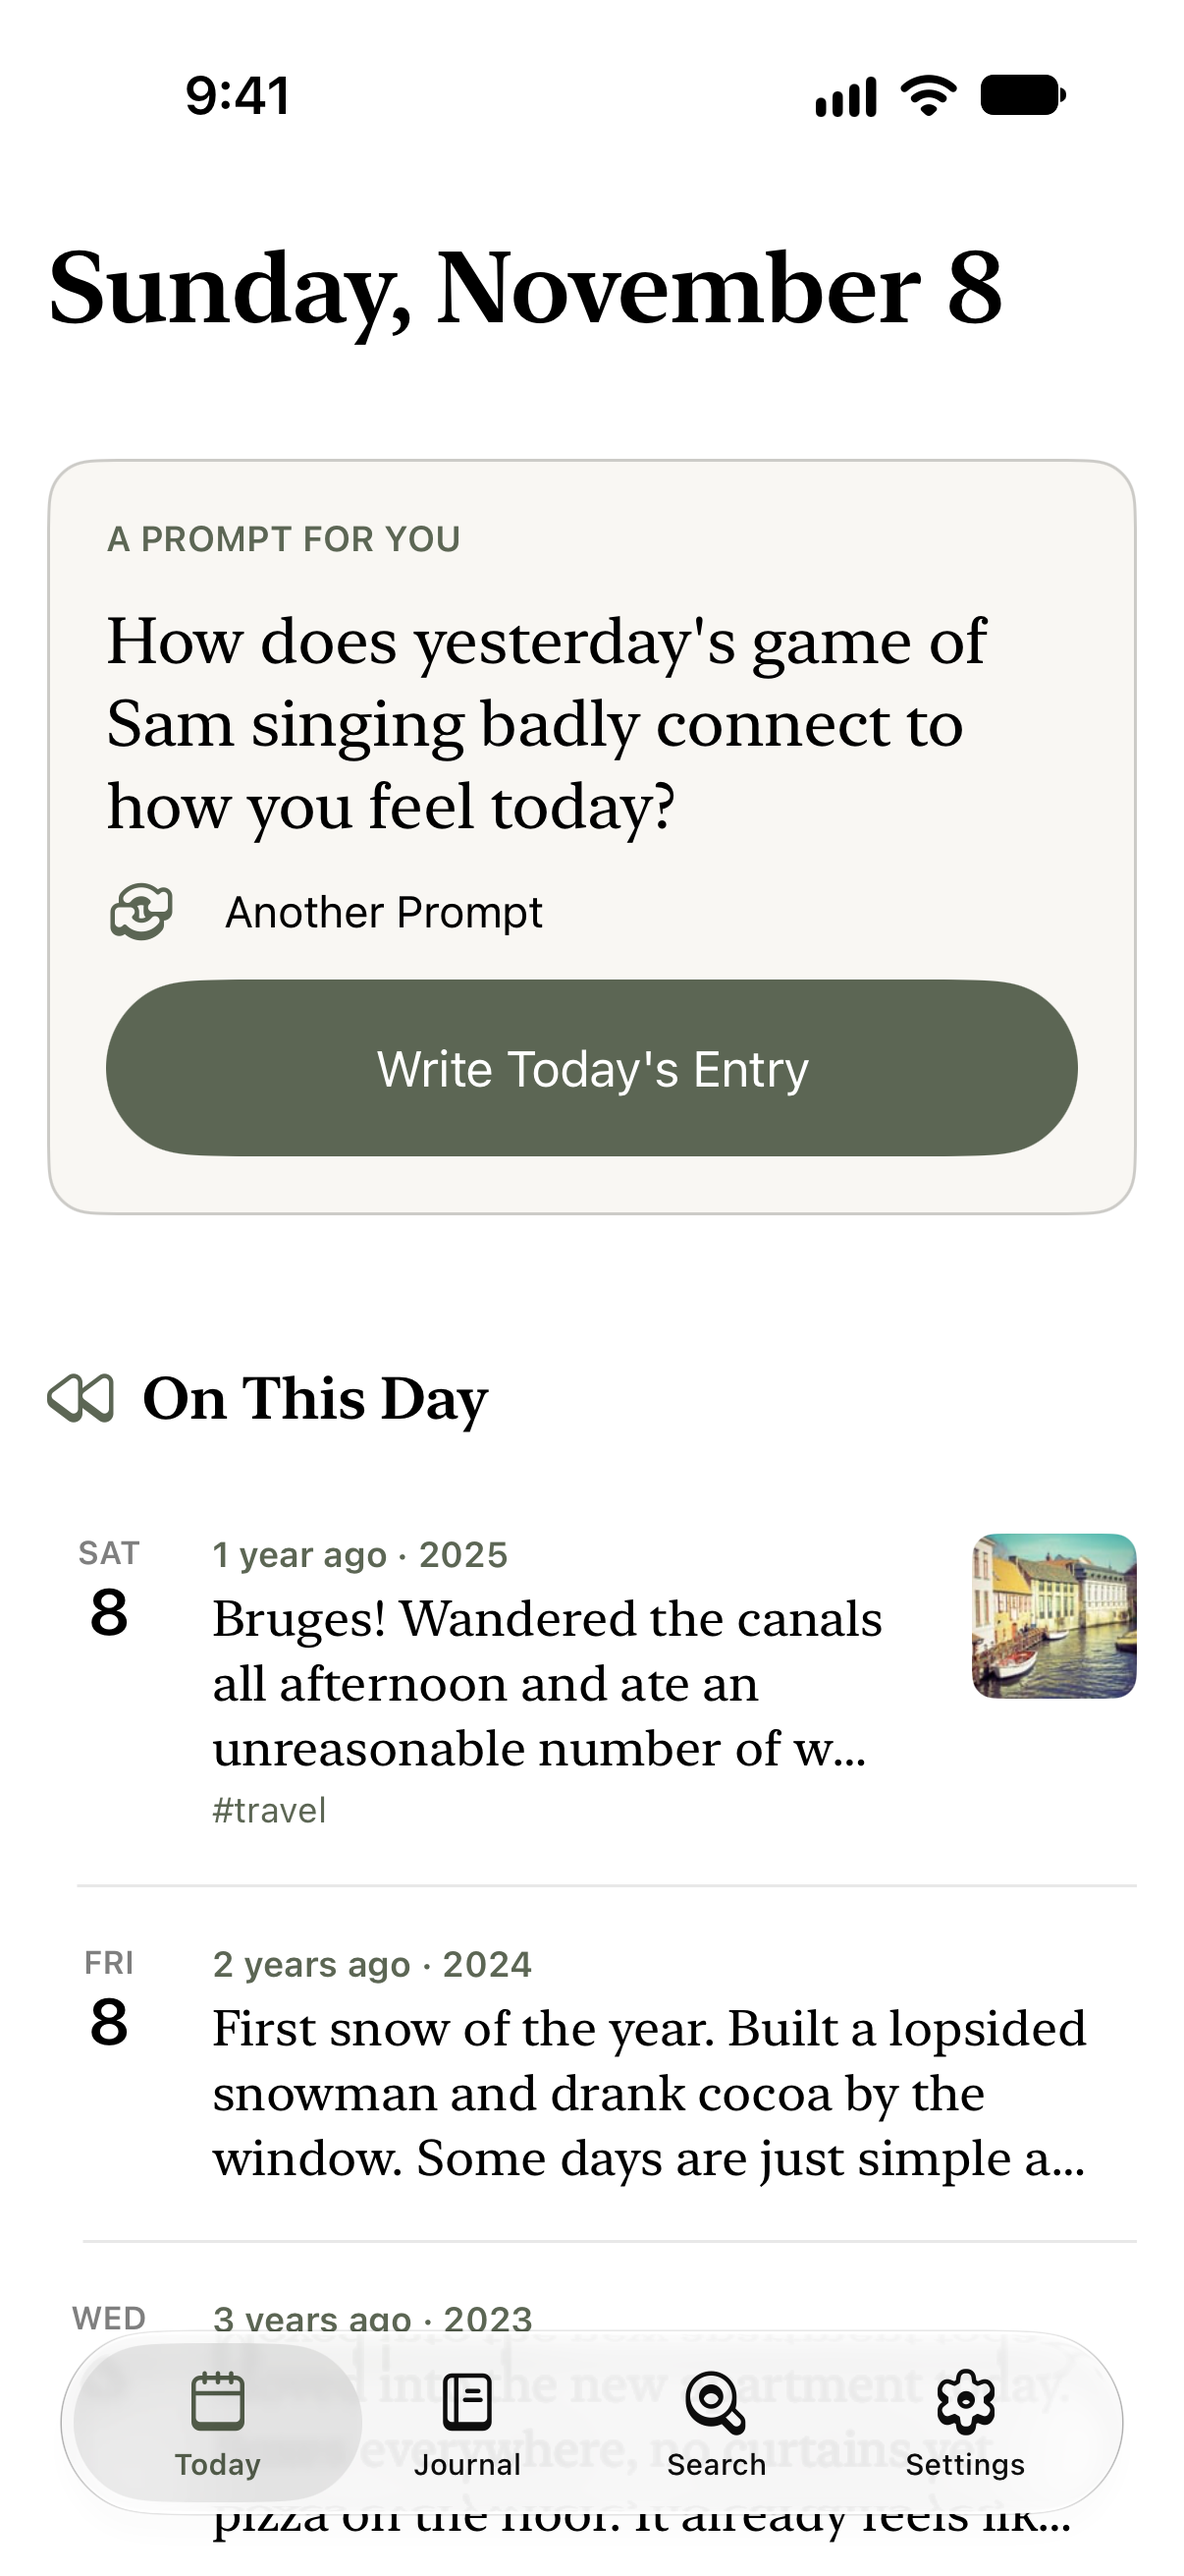
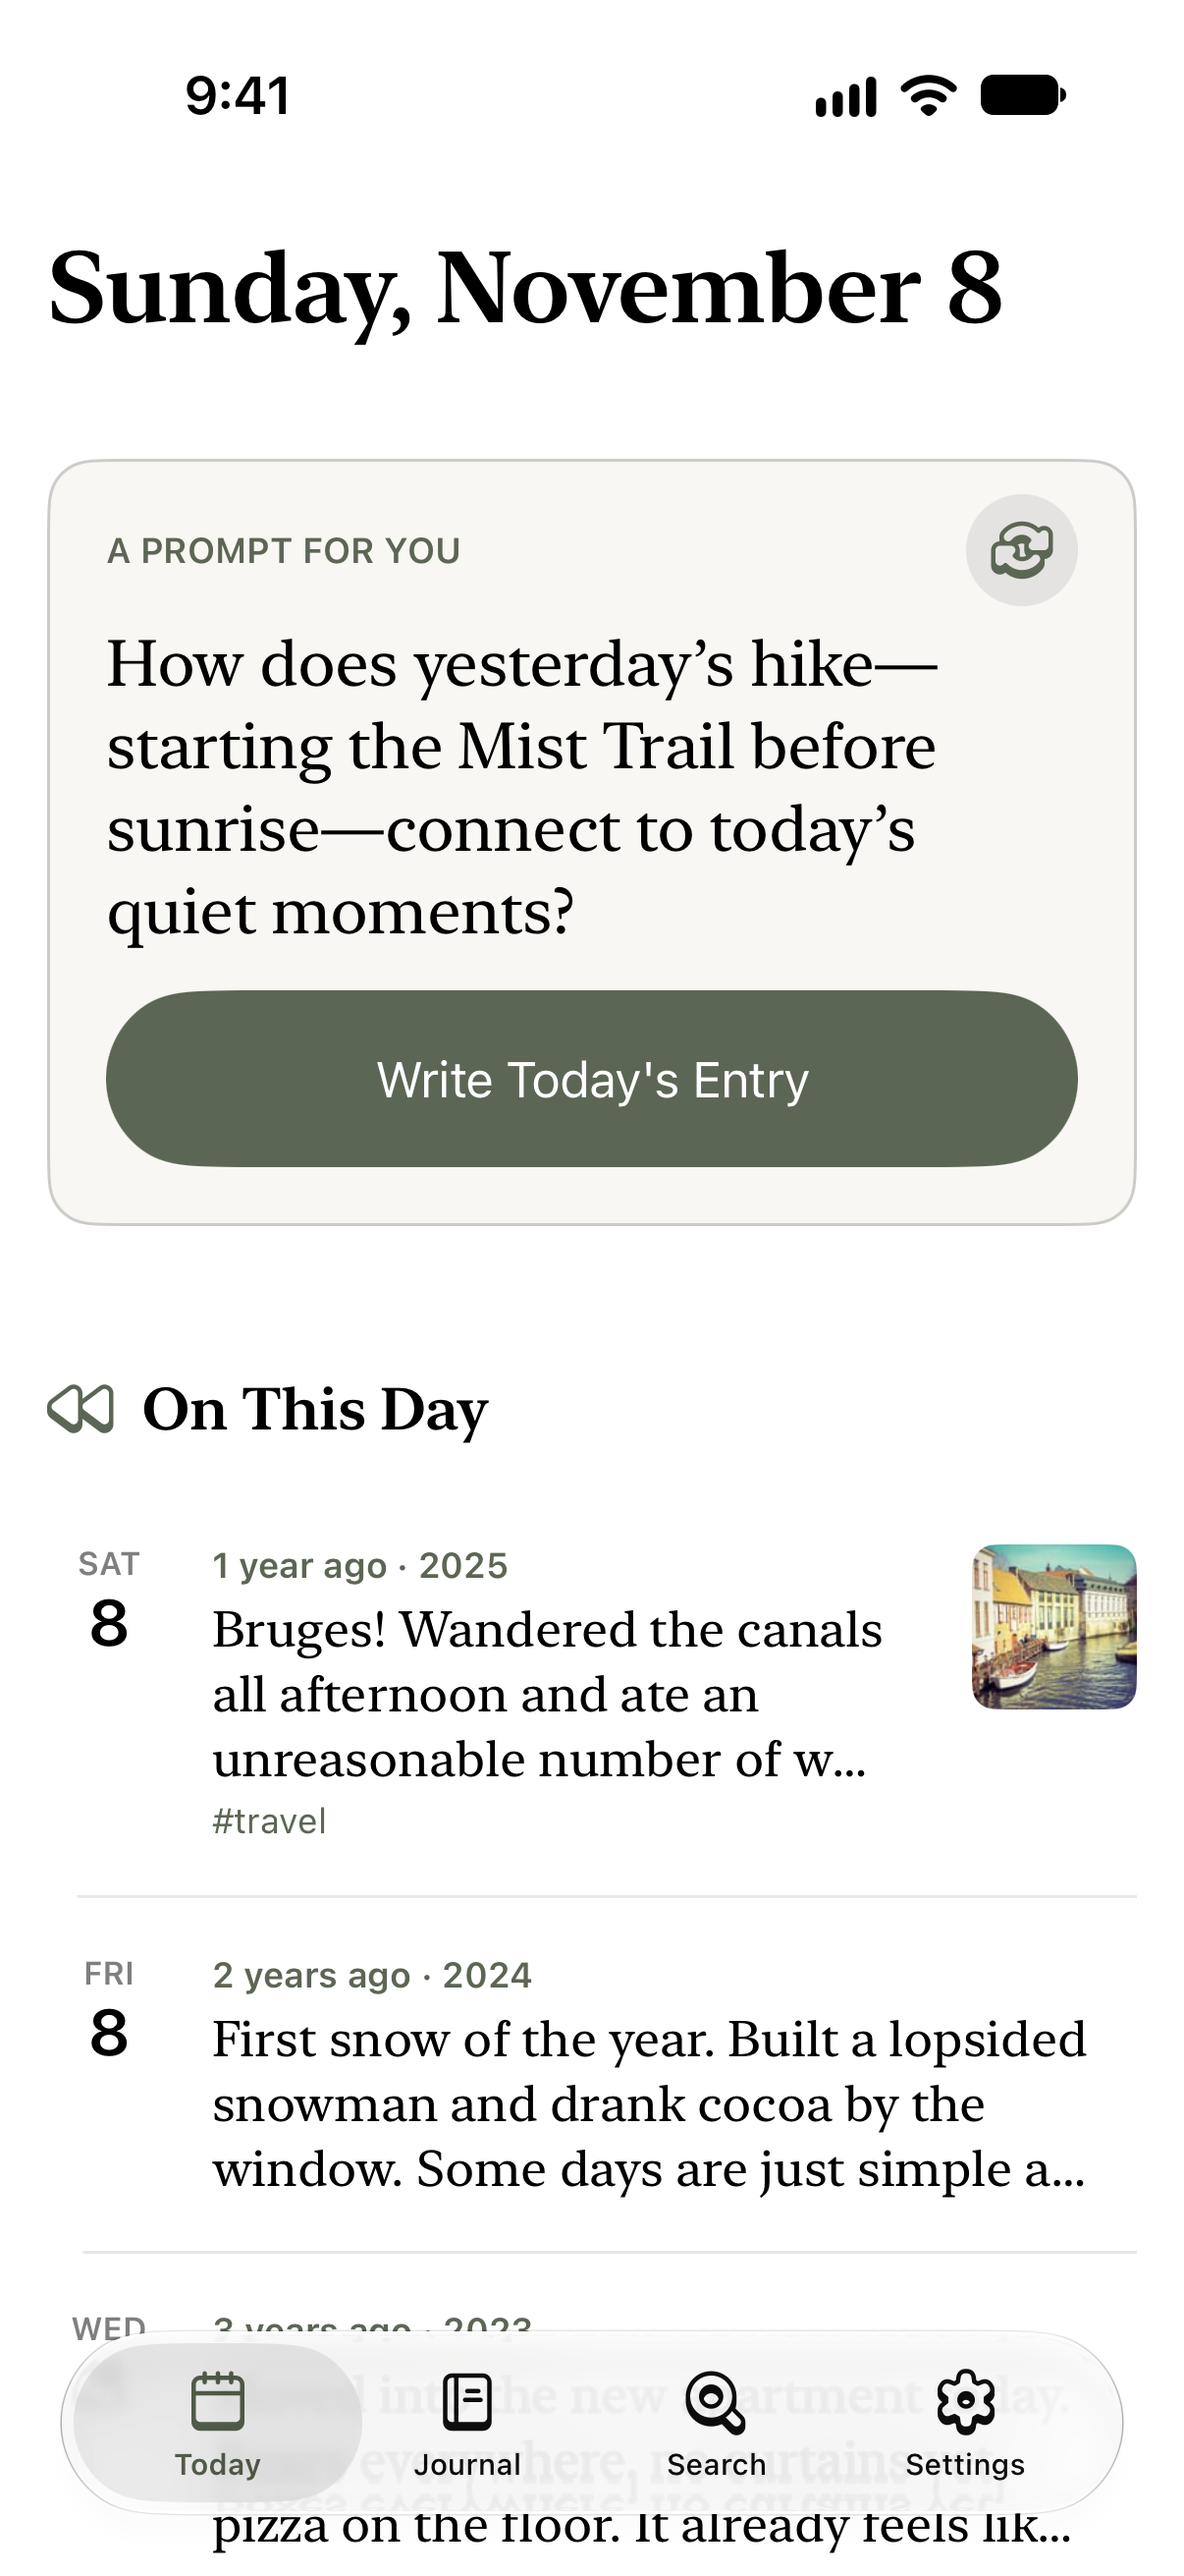
iOS: sparkles for reflections and the AI Connector; Another Prompt in the corner
- Reflect (swipe, actions sheet, pull) and the Claude/ChatGPT Connector use the
  Slab sparkles icon
- Another Prompt is an icon-only circle button in the prompt card's top-right corner
- The daily prompt uses the entries' own words: its instructions no longer give an
  example ("yesterday's game") for the on-device model to copy
- Screenshots retaken; build 27

diff --git a/ios/DabbleMe/Views/TodayView.swift b/ios/DabbleMe/Views/TodayView.swift
@@ -98,29 +98,37 @@ struct TodayView: View {
                         .redacted(reason: .placeholder)
                         .accessibilityLabel("Writing a prompt for you")
                 } else if let prompt = personal ?? today.prompt {
-                    Text(personal != nil ? "A prompt for you" : "Today's prompt")
-                        .font(.caption.weight(.semibold))
-                        .textCase(.uppercase)
-                        .foregroundStyle(.tint)
+                    HStack {
+                        Text(personal != nil ? "A prompt for you" : "Today's prompt")
+                            .font(.caption.weight(.semibold))
+                            .textCase(.uppercase)
+                            .foregroundStyle(.tint)
+                        Spacer()
+                        if usesAI, personal != nil {
+                            // Another prompt: an icon in the card's top-right corner.
+                            Button {
+                                Task { await writePrompt(for: today) }
+                            } label: {
+                                if isWritingPrompt {
+                                    ProgressView().controlSize(.small)
+                                } else {
+                                    Label("Another Prompt", icon: "slab-arrows-rotate")
+                                }
+                            }
+                            .labelStyle(.iconOnly)
+                            .buttonStyle(.bordered)
+                            .buttonBorderShape(.circle)
+                            .disabled(isWritingPrompt)
+                            .accessibilityLabel("Another Prompt")
+                            .padding(.vertical, -8) // keep the label row's height
+                        }
+                    }
                     Text(prompt)
                         .font(.system(.title2, design: .serif))
                         .contentTransition(.opacity)
                 } else {
                     Text("How was your day?")
                         .font(.system(.title2, design: .serif))
-                }
-                if usesAI, personal != nil {
-                    Button {
-                        Task { await writePrompt(for: today) }
-                    } label: {
-                        if isWritingPrompt {
-                            ProgressView().controlSize(.small)
-                        } else {
-                            Label("Another Prompt", icon: "slab-arrows-rotate")
-                        }
-                    }
-                    .font(.subheadline)
-                    .disabled(isWritingPrompt)
                 }
                 if model.me?.canWrite == false {
                     Text("Reply to today's Dabble Me email and it'll show up here as your entry.")

diff --git a/ios/DabbleMe/Support/JournalIntelligence.swift b/ios/DabbleMe/Support/JournalIntelligence.swift
@@ -134,7 +134,8 @@ enum JournalIntelligence {
 
     /// One reflection question inspired by recent entries.
     /// `recent` are dated lines from `dated(_:today:)`: the model needs to know those things happened
-    /// on earlier days, or it asks about "today's" game that was yesterday.
+    /// on earlier days, or it asks about "today's" game that was yesterday. (No concrete examples in
+    /// the instructions: the on-device model copies them, calling a hike "yesterday's game".)
     static func reflectionPrompt(from recent: [String], today: JournalDay) async throws -> String {
         let context = recent.prefix(5).joined(separator: "\n")
         let todayText = today.formatted(.dateTime.weekday(.wide).month(.wide).day())
@@ -142,9 +143,9 @@ enum JournalIntelligence {
             instructions: """
             You write one gentle journaling prompt for today: a single question under 20 words. Recent entries \
             are given with their dates; everything in them happened on those earlier days, not today. If the \
-            question mentions something from them, put it in the past ("yesterday's game", "last week's trip") \
-            and ask how it connects to today. Never describe a past event as happening today. Reply with only \
-            the question.
+            question mentions something from them, use the entry's own words for it (a hike stays a hike), say \
+            when it was (yesterday, last week), and ask how it connects to today. Never mention anything the \
+            entries don't say, and never describe a past event as happening today. Reply with only the question.
             """,
             prompt: "Today is \(todayText).\n" + (context.isEmpty ? "No recent entries yet." : "Recent entries:\n\(clipped(context))")
         )

diff --git a/ios/DabbleMe/Views/EntryDetailView.swift b/ios/DabbleMe/Views/EntryDetailView.swift
@@ -537,7 +537,7 @@ private struct PullToReflect: ViewModifier {
                 }
                 .overlay(alignment: .top) {
                     if pull > 8, !isRunning {
-                        Label(armed ? "Release to reflect" : "Pull to reflect on this entry", icon: "slab-thought-bubble")
+                        Label(armed ? "Release to reflect" : "Pull to reflect on this entry", icon: "slab-sparkles")
                             .font(.subheadline.weight(.medium))
                             .foregroundStyle(armed ? AnyShapeStyle(.tint) : AnyShapeStyle(.secondary))
                             .opacity(min(1, (pull - 8) / 40))

diff --git a/ios/DabbleMe/Views/SettingsView.swift b/ios/DabbleMe/Views/SettingsView.swift
@@ -53,7 +53,7 @@ struct SettingsView: View {
                     // the guide links to Claude's and ChatGPT's directories.
                     if let connectors = model.me?.aiConnectors {
                         Link(destination: connectors.guideUrl) {
-                            Label("Claude/ChatGPT Connector", icon: "slab-cloud")
+                            Label("Claude/ChatGPT Connector", icon: "slab-sparkles")
                         }
                     }
                     Link(destination: model.me?.settingsUrl ?? AppConfig.webURL("settings")) {

diff --git a/ios/DabbleMe/Views/EntryActionsSheet.swift b/ios/DabbleMe/Views/EntryActionsSheet.swift
@@ -30,7 +30,7 @@ struct EntryActionsSheet: View {
                     .foregroundStyle(.secondary)
                     .padding(.bottom, 4)
                 if canReflect {
-                    row("Reflect on This Entry", "slab-thought-bubble", .reflect)
+                    row("Reflect on This Entry", "slab-sparkles", .reflect)
                 }
                 if canEdit {
                     row(entry.document != nil ? "Edit" : "Edit on dabble.me", "slab-edit", .edit)

diff --git a/ios/DabbleMe/Views/TimelineEntryRow.swift b/ios/DabbleMe/Views/TimelineEntryRow.swift
@@ -39,7 +39,7 @@ struct TimelineEntryRow: View {
                 Button {
                     Task { await actions.reflect(on: entry.id, model: model) }
                 } label: {
-                    Label("Reflect", icon: "slab-thought-bubble")
+                    Label("Reflect", icon: "slab-sparkles")
                 }
                 .tint(.accentColor)
             }
